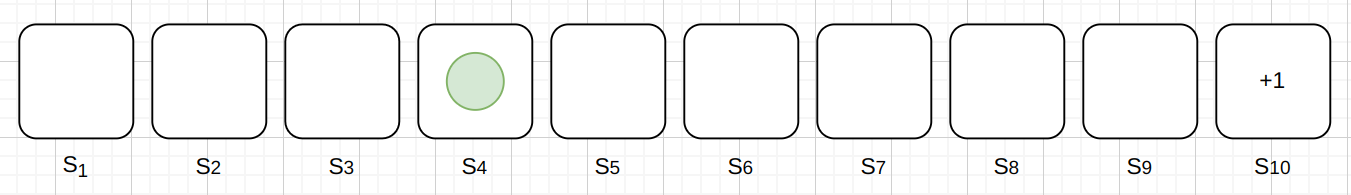
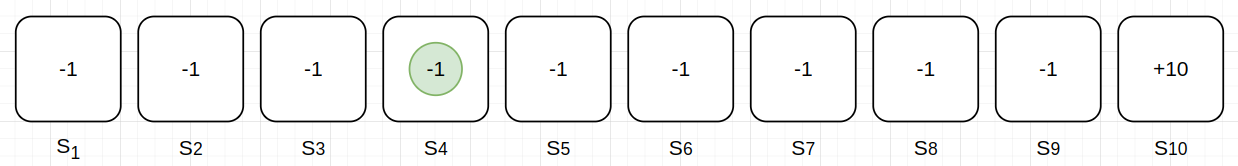
lots of insight and improvements added

diff --git a/2024-04-12_value_iteration_bellmanseqn/value_iteration_1.tex b/2024-04-12_value_iteration_bellmanseqn/value_iteration_1.tex
@@ -28,7 +28,7 @@ It is instructive intially discuss the foundational concepts in Markov Decision 
 
 \begin{figure}
     \includegraphics[width=\textwidth]{images/1d-grid-world-problem-statement.png}
-    \caption{1D Grid World MDP with an assigned reward of $+1$ in state $s_{10}$.  The agent currently sits in state $s_4$ and the goal of the problem is for the agent to take actions to maximise its reward.  At each state, there is a negative reward/cost of $-1$ for taking actions (move left) or (move right).  Drawn with draw.io and saved in Google Drive as 1D\_grid\_world.drawio.}
+    \caption{1D Grid World MDP with an assigned reward of $+10$ in state $s_{10}$, termed the terminal state.  The agent currently sits in state $s_4$ and the goal of the problem is for the agent to take actions to maximise its reward.  At each state other than the terminal state, there is a negative reward of $-1$.  Drawn with draw.io and saved in Google Drive as 1D\_grid\_world.drawio.}
     \label{fig:1d-grid-world-problem-statement}
 \end{figure}
 
@@ -45,7 +45,17 @@ It is instructive intially discuss the foundational concepts in Markov Decision 
         \pi(s,a) = \argmax_a Q(s, a)
     \end{equation}
     i.e. an $\argmax$ over the available actions which returns the argument (action) that returns the maximum value for the quality function $Q$ (defined later).
-    \item Reward: Numerical reward can be associated with certain states and actions, represented as $R(s',s,a)$ where $s'$ are the neighbouring states and $a$ are the actions available at the current state $s$.  In the case of Figure \ref{fig:1d-grid-world-problem-statement}, there is a fixed reward of $+1$ at state $s_{10}$ and each action of (move left) or (move right) has a reward of $-1$.
+    \item Reward: Numerical reward can be associated with certain states and actions, represented as $R_t$ for the current time step.  In the case of Figure \ref{fig:1d-grid-world-problem-statement}, there is a fixed reward of $+10$ at state $s_{10}$ and the other states have a reward of $-1$.  The goal of RL can be considered to be finding the sequence of actions that maximise the sum of rewards to achieve a sucessful episode i.e. the agent reaches the terminal state $s_{10}$.
+    \item Episodes:  MDPs have the characteristic of being finite i.e. they end within a finite number of time steps, denoted $T$.  More specifically, an episode is a sequence of states, actions and rewards that start at some state and end in the terminal state.
+    \item Return or "Future Gains":  Usually denoted $G_t$ it is the sum of rewards gained by the agent {\it after} time step $t$, define as:
+    \begin{equation} \label{eqn:return_G_t}
+        G_t = R_{t+1} + R_{t+2} + ... + R_{T}
+    \end{equation}
+    It is possible to introduce a discount rate $\gamma \in [0,1]$ that diminishes the rewards gained further in the future:
+    \begin{equation} \label{eqn:return_G_t}
+        G_t = R_{t+1} + \gamma R_{t+2} + \gamma^2 R_{t+2} + ... + \gamma^{T-1-t} R_{T}
+    \end{equation}
+    note how the power of $\gamma$ in the final term is $T-1-t$ and {\it not} $T$, a little thought makes this clear (for example, try write down $G_4$ where $T=8$).
 \end{itemize}
 
 \section{State Value Function, Bellman's Equation and the Principle of Optimality}
@@ -61,7 +71,7 @@ where $s'$ are the neighbouring states to the current state, $s$.
 
 \section{Value Iteration}
 
-
+Value iteration allows one to assign state values to each state through repeated, iterative application of the value function, and the optimal policy is extracted at the end.  
 
 
 
